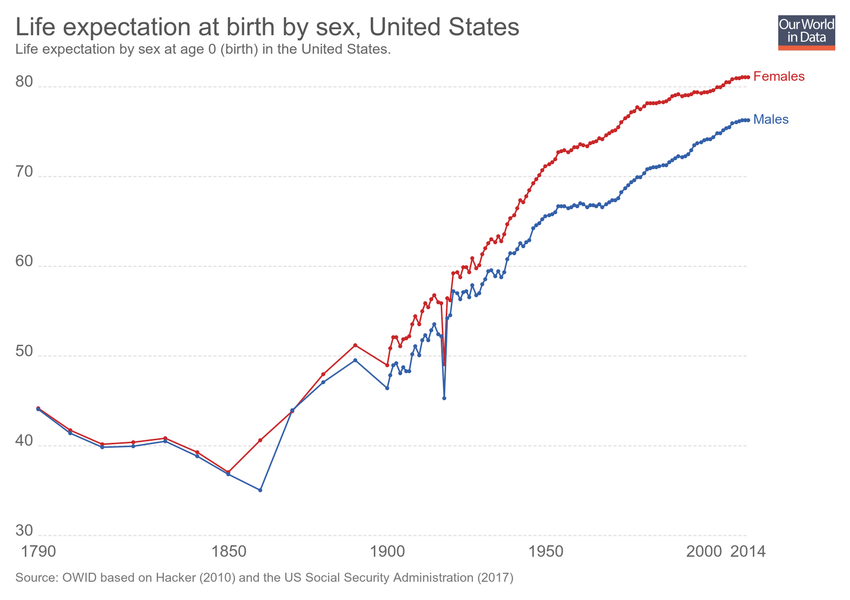
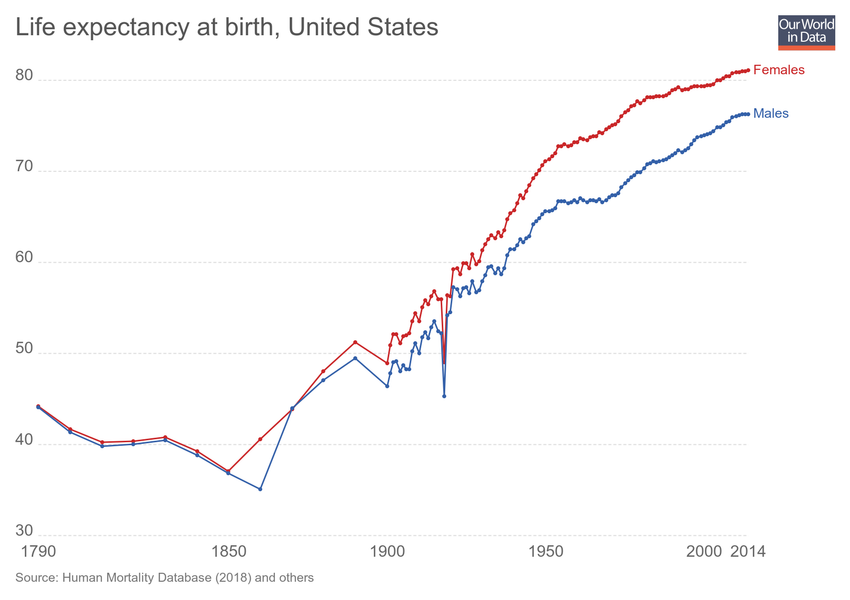
Updating chart life-expectation-at-birth-by-sex

diff --git a/grapher/life-expectation-at-birth-by-sex.html b/grapher/life-expectation-at-birth-by-sex.html
@@ -1,4 +1,4 @@
-<!doctype html><html><head><meta name="viewport" content="width=device-width, initial-scale=1" /><title>Life expectancy at birth - Our World in Data</title><meta name="description" content="An interactive visualization from Our World in Data." /><link rel="canonical" href="https://ourworldindata.org/grapher/life-expectation-at-birth-by-sex" /><meta property="fb:app_id" content="1149943818390250" /><meta property="og:url" content="https://ourworldindata.org/grapher/life-expectation-at-birth-by-sex" /><meta property="og:title" content="Life expectancy at birth" /><meta property="og:description" content="An interactive visualization from Our World in Data." /><meta property="og:image" content="https://ourworldindata.org/grapher/exports/life-expectation-at-birth-by-sex.png?v=2" /><meta property="og:image:width" content="850" /><meta property="og:image:height" content="600" /><meta property="og:site_name" content="Our World in Data" /><meta name="twitter:card" content="summary_large_image" /><meta name="twitter:site" content="@OurWorldInData" /><meta name="twitter:creator" content="@OurWorldInData" /><meta name="twitter:title" content="Life expectancy at birth" /><meta name="twitter:description" content="An interactive visualization from Our World in Data." /><meta name="twitter:image" content="https://ourworldindata.org/grapher/exports/life-expectation-at-birth-by-sex.png?v=2" /><style>
+<!doctype html><html><head><meta name="viewport" content="width=device-width, initial-scale=1" /><title>Life expectancy at birth - Our World in Data</title><meta name="description" content="An interactive visualization from Our World in Data." /><link rel="canonical" href="https://ourworldindata.org/grapher/life-expectation-at-birth-by-sex" /><meta property="fb:app_id" content="1149943818390250" /><meta property="og:url" content="https://ourworldindata.org/grapher/life-expectation-at-birth-by-sex" /><meta property="og:title" content="Life expectancy at birth" /><meta property="og:description" content="An interactive visualization from Our World in Data." /><meta property="og:image" content="https://ourworldindata.org/grapher/exports/life-expectation-at-birth-by-sex.png?v=3" /><meta property="og:image:width" content="850" /><meta property="og:image:height" content="600" /><meta property="og:site_name" content="Our World in Data" /><meta name="twitter:card" content="summary_large_image" /><meta name="twitter:site" content="@OurWorldInData" /><meta name="twitter:creator" content="@OurWorldInData" /><meta name="twitter:title" content="Life expectancy at birth" /><meta name="twitter:description" content="An interactive visualization from Our World in Data." /><meta name="twitter:image" content="https://ourworldindata.org/grapher/exports/life-expectation-at-birth-by-sex.png?v=3" /><style>
         html, body {
             height: 100%;
             margin: 0;
@@ -20,8 +20,8 @@
         }
     </style><noscript><style>
                     figure { display: none !important; }
-                </style></noscript><link rel="stylesheet" href="https://ourworldindata.org/grapher/assets/commons.bundle.0cade97703a5a10acaac.css" /><link rel="preload" href="/grapher/data/variables/97735+97736.json?v=2" as="fetch" crossorigin /></head><body class="singleChart"><figure data-grapher-src="/grapher/life-expectation-at-birth-by-sex"></figure><noscript id="fallback"><img src="/grapher/exports/life-expectation-at-birth-by-sex.svg" /><p>Interactive visualization requires JavaScript</p></noscript><script src="https://cdn.polyfill.io/v2/polyfill.min.js?features=es6,fetch"></script><script src="https://ourworldindata.org/grapher/assets/commons.bundle.0cade97703a5a10acaac.js"></script><script src="https://ourworldindata.org/grapher/assets/charts.bundle.0cade97703a5a10acaac.js"></script><script>
-        var jsonConfig = {"id":2928,"map":{"projection":"World","colorSchemeLabels":[],"colorSchemeValues":[],"customNumericColors":[],"customCategoryColors":{},"customCategoryLabels":{},"customHiddenCategories":{}},"tab":"chart","slug":"life-expectation-at-birth-by-sex","type":"LineChart","title":"Life expectancy at birth","xAxis":{"scaleType":"linear"},"yAxis":{"min":30,"scaleType":"linear"},"version":2,"hasMapTab":false,"stackMode":"absolute","dimensions":[{"display":{"name":"Females","shortUnit":""},"property":"y","variableId":97735},{"display":{"name":"Males"},"property":"y","variableId":97736}],"hasChartTab":true,"isPublished":true,"selectedData":[{"index":0,"entityId":13},{"index":1,"entityId":13}],"addCountryMode":"change-country"};
+                </style></noscript><link rel="stylesheet" href="https://ourworldindata.org/grapher/assets/commons.bundle.0cade97703a5a10acaac.css" /><link rel="preload" href="/grapher/data/variables/97764+97761.json?v=3" as="fetch" crossorigin /></head><body class="singleChart"><figure data-grapher-src="/grapher/life-expectation-at-birth-by-sex"></figure><noscript id="fallback"><img src="/grapher/exports/life-expectation-at-birth-by-sex.svg" /><p>Interactive visualization requires JavaScript</p></noscript><script src="https://cdn.polyfill.io/v2/polyfill.min.js?features=es6,fetch"></script><script src="https://ourworldindata.org/grapher/assets/commons.bundle.0cade97703a5a10acaac.js"></script><script src="https://ourworldindata.org/grapher/assets/charts.bundle.0cade97703a5a10acaac.js"></script><script>
+        var jsonConfig = {"id":2928,"map":{"projection":"World","colorSchemeLabels":[],"colorSchemeValues":[],"customNumericColors":[],"customCategoryColors":{},"customCategoryLabels":{},"customHiddenCategories":{}},"tab":"chart","slug":"life-expectation-at-birth-by-sex","type":"LineChart","title":"Life expectancy at birth","xAxis":{"scaleType":"linear"},"yAxis":{"min":30,"scaleType":"linear"},"version":3,"hasMapTab":false,"stackMode":"absolute","dimensions":[{"display":{"name":"Females"},"property":"y","variableId":97764},{"display":{"name":"Males"},"property":"y","variableId":97761}],"hasChartTab":true,"isPublished":true,"selectedData":[{"index":0,"entityId":13},{"index":1,"entityId":13}],"addCountryMode":"change-country"};
         var figure = document.getElementsByTagName("figure")[0];
         try {
             window.App = {};
